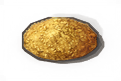
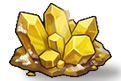
Artifact polish after judge 41: a combination's other sockets greyed out with a chain link (as the classic) and a bright inner rim on the combination itself; iron frames for war machines, the spellbook and empty sockets so gold means only the major tier; a duller copper for the treasure tier; backpa

diff --git a/tools/art/button_icons_paint.py b/tools/art/button_icons_paint.py
@@ -115,6 +115,11 @@ SHEETS = {"adventure": [
     (f"xp_{k}", "a gold star medal with a blue ribbon, drawn large and bold") for k in "ab"
 ] + [
     (f"speed_{k}", "a winged golden horseshoe with motion streaks, drawn large and bold") for k in "ab"
+], "sulfur": [  # (the map's sulfur pile: the old one read as a flat yellow disc; ingest -> imagegen, then
+    # tools/art/map_pile.py makes the map sprite)
+    (f"sulfur_{k}", "a small heap of bright yellow sulfur crystals lying on the ground, jagged chunky crystal lumps "
+     "with sharp facets and a little whitish crust, a faint wisp of pale smoke, seen from above at a three-quarter "
+     "angle, drawn bold") for k in "abcdefgh"
 ], "tome": [  # (the hero screen's spellbook slot: a closed, clasped tome, as the classic's; an open book read as Wisdom)
     (f"spellbook_closed_{k}", "a closed thick spellbook bound in deep red leather with ornate gold corner guards, a gold "
      "clasp and a glowing blue gem set in the cover, drawn large and bold, seen slightly from the front") for k in "abcdefgh"
@@ -171,7 +176,8 @@ def ingest(sheet):
         out.alpha_composite(obj, ((SIZE - obj.width) // 2, (SIZE - obj.height) // 2))
         dst = {"skills": f"assets/icons/skill_{name}.png", "stats": f"assets/icons/stat_{name}.png",
                "knowledge": f"assets/icons/stat_{name}.png", "misc_stats": f"assets/icons/stat_{name}.png",
-               "tome": f"assets/icons/{name}.png"}.get(sheet, f"assets/ui/btn_{name}.png")
+               "tome": f"assets/icons/{name}.png",
+               "sulfur": f"imagegen/batch20/out/{name}.png"}.get(sheet, f"assets/ui/btn_{name}.png")
         out.save(dst)
         print(f"  {dst}")
 

diff --git a/tools/art/map_pile.py b/tools/art/map_pile.py
@@ -1,0 +1,28 @@
+"""A resource pile for the adventure map from a painted, keyed take (button_icons_paint.py sheet "sulfur"): the
+magenta-tinted smoke dropped, scaled to the old sprite's size, a soft cast shadow added; the anchor in
+assets/map/anchors.json is kept (the pile's foot at the canvas bottom).
+python tools/art/map_pile.py imagegen/batch20/out/sulfur_a.png res_sulfur"""
+import sys
+import numpy as np
+from PIL import Image, ImageDraw, ImageFilter
+
+src, name = sys.argv[1], sys.argv[2]
+old = Image.open(f"assets/map/{name}.png")
+im = Image.open(src).convert("RGBA")
+a = np.asarray(im).astype(float)
+pink = (a[..., 0] > a[..., 1] + 10) & (a[..., 2] > a[..., 1] - 25) & (a[..., 2] > 90)  # (the smoke, tinted by the magenta ground)
+a[pink, 3] = 0
+a[a[..., 3] < 170, 3] = 0  # (and its faint remains: the pile itself is opaque)
+im = Image.fromarray(a.astype(np.uint8))
+im = im.crop(im.getchannel("A").point(lambda v: 255 if v > 40 else 0).getbbox())
+W, H = old.size
+s = min((W - 12) / im.width, (H - 6) / im.height)
+im = im.resize((round(im.width * s), round(im.height * s)), Image.LANCZOS)
+canvas = Image.new("RGBA", (W, H))
+sh = Image.new("L", (W, H), 0)
+x0 = (W - im.width) // 2
+ImageDraw.Draw(sh).ellipse([x0 + im.width * 0.1, H - 16, x0 + im.width * 1.05, H - 2], fill=110)
+canvas.paste((0, 0, 0, 255), (5, 0), sh.filter(ImageFilter.GaussianBlur(4)))
+canvas.alpha_composite(im, (x0, H - im.height - 3))
+canvas.save(f"assets/map/{name}.png")
+print("assets/map/%s.png" % name, canvas.size)

diff --git a/HANDOFF.md b/HANDOFF.md
@@ -2,7 +2,7 @@
 
 Read this first, then `ARCHITECTURE.md` (code map), `ASSETS.md` (every asset path and the art pipeline) and
 `CREDITS.md`. This file is written so that another person or another AI assistant can pick the work up exactly
-where it stopped. Last updated 2026-10-20 (artifacts committed and pushed; judge 41 run on them), branch `main`, remote
+where it stopped. Last updated 2026-10-20 (round 42, artifact polish, committed and pushed; judge 42 run), branch `main`, remote
 `https://github.com/wolfxxx/Heroes.git` (public repo).
 
 ## 1. The project in one paragraph
@@ -24,6 +24,12 @@ the look and feel of HoMM3, and each round fixes what the judge found.
   it (scores in section 7). Next step of the plan: the AI work (section 8).
 - Found and fixed on the way: the all-computer simulation could overflow Godot's message queue once one computer
   player had beaten the others (the AI turn loop never waited a frame); `_run_ai_turns` now waits one frame per turn.
+- Round 42 (artifact polish after judge 41) committed and pushed, judge 42 run on it: a combination's linked sockets greyed out with a
+  chain mark, iron frames for non-artifact and empty sockets, copper for the treasure tier, dimmed backpack arrows,
+  the sulfur pile repainted (it read as a flat yellow disc; `tools/art/map_pile.py`), guards no longer placed beside
+  another object, trees just below an object turned into bushes (`WorldGen._clear_view_of_objects`), and a 33rd judge
+  shot `adventure_artifacts` (`--setup=artifacts`). The placement changes alter generated maps, so judge 42's adventure
+  shots show different maps from judge 41's.
 - Round 40 is committed and pushed.
 - Judge 40 scores: menu 9.2, adventure 9.2, town 9.4, dialogs 9.5, battle 8.9, **overall 9.2**.
 - Rounds 31–40 were run as one uninterrupted loop on the user's instruction ("build, commit and push, judge cycle
@@ -73,7 +79,8 @@ the look and feel of HoMM3, and each round fixes what the judge found.
 | One screenshot | `Godot --path . -- --shot=shots/x.png --scene=res://scenes/battle.tscn --delay=3 --setup=demo` |
 | Judge screenshot set | `sh tools/judge_round.sh N` → `shots/judgeN/` (32 shots, 1600x900) |
 
-Screenshot harness flags (`scripts/core/shot.gd`, coordinates in 1920x1080 space, images saved at 1600x900):
+Screenshot harness flags (`scripts/core/shot.gd`, coordinates in 1920x1080 space, images saved at 1600x900;
+`--setup=artifacts` lays an artifact of each tier beside the first hero):
 `--shot --scene --delay --shots --interval --click=x,y;x,y (prefix r for right click) --keys=A;S --hover=x,y`;
 scenes also read `--setup=` (`demo`, `rich`, `new_game`, `all_spells`, `upgraded`, `siege`, `siege_haven`,
 `necro_rich`, `necro_max`, `x`), `--seed --faction --reveal --cam=x,y --zoom --broken=a,b`. The harness parks the
@@ -118,11 +125,26 @@ magenta key for pink fringes (recolour them, as was done for the Luck clover).
 | 38 | 9.2 | 9.2 | 9.2 | 9.4 | 8.9 | 9.2 |
 | 39 | 9.2 | 9.2 | 9.3 | 9.4 | 8.8 | 9.2 |
 | 40 | 9.2 | 9.2 | 9.4 | 9.5 | 8.9 | 9.2 |
+| 41 | 9.2 | 9.2 | 9.4 | 9.6 | 8.9 | 9.2 |
 
 Trend: gains have flattened at 9.2 for three rounds. Battle is the weakest area; the next big step most likely comes
 from battle (crowded siege melees, the lightning effect) or from new gameplay (section 8), not more small polish.
 
 ## 8. What's next
+
+### Open findings from judge 41 (artifacts round)
+1. No artifact appears in any judge screenshot, so the map half of the feature was not judged: add a judge shot
+   framed on placed artifacts (`tools/judge_shots.sh`).
+2. A combination's linked sockets read as copies of the item: fade/desaturate them much harder and mark them
+   (HoMM3 greys out the slots a combination takes); the Dragonheart Arms icon is low-contrast on the maroon ground.
+3. Non-artifact sockets (war machines, spellbook, empty backpack cells) use a gold frame that reads as the "major"
+   tier: give them a neutral dark-iron frame.
+4. Bronze (treasure) and gold (major) tier frames are too close: push bronze toward copper and duller.
+5. A flat gold oval on the map (adventure_snow ~1057,357; adventure_overview ~455,282) reads as a placeholder.
+6. Map objects on neighbouring tiles overlap (two knights by the mine in adventure_snow; a gold pile inside a tree in
+   adventure_close).
+7. Backpack page arrows look active when everything fits on one page.
+8. Still open from judge 40: storm cloud on the top-row stack, faint open-field bolt, siege-gate pile-ups.
 
 ### Open findings from judge 40 (ranked)
 1. Lightning storm cloud looks like a flat cartoon blob (`battle.gd` class `_Burst`, the `bolt` branch); its pale

diff --git a/tools/judge_prompt.md b/tools/judge_prompt.md
@@ -9,8 +9,8 @@ You are a demanding visual/UX judge for "Heroes of the Shattered Crown", a Godot
 that aims to look and play like Heroes of Might and Magic III (classic adventure map, town screens, hex battles).
 Judge only what you can see in the screenshots; do not edit any files.
 
-Screenshots (all 1600x900) are in C:\Users\PC\Documents\GITHUBprojects\Heroes2\shots\judge<N>\ — 32 PNGs: menu,
-newgame, adventure_* (start, close, overview, path, snow, kingdom, date), hero_screen, town_* (build, build_rich,
+Screenshots (all 1600x900) are in C:\Users\PC\Documents\GITHUBprojects\Heroes2\shots\judge<N>\ — 33 PNGs: menu,
+newgame, adventure_* (start, close, overview, path, snow, kingdom, date, artifacts), hero_screen, town_* (build, build_rich,
 recruit, upgrade, capitol, blacksmith, haven_early, haven_full, necro_full), battle_* (0, 1, 2, fireball, hover,
 siege, siege_later, siege_turn, siege_haven, spellbook, surrender, turn, upgraded). View every one with the Read
 tool. For comparison the previous round's shots are in ...\shots\judge<N-1>\ (same names); look at a few to judge

diff --git a/ASSETS.md b/ASSETS.md
@@ -46,7 +46,8 @@ leaves the `_dead` sprite on the hex as a corpse.
 - `terrain/<terrain>.png` — seamless tileable 512x512 top-down ground textures: grass dirt sand snow swamp water road.
 - `map/town_<faction>.png` — town as seen on adventure map (3/4 oblique top-down), transparent, ~384x288 (occupies ~5x3 tiles at 64px; the entrance gate at bottom centre).
 - `map/<mine_id>.png` — mines (ids in `GameData.MINES`), transparent, ~192x160.
-- `map/res_<resource>.png` — resource pile on the ground, transparent, ~96x80.
+- `map/res_<resource>.png` — resource pile on the ground, transparent, ~96x80. `res_sulfur.png` was repainted
+  (sheet `sulfur` of `button_icons_paint.py`, then `tools/art/map_pile.py`: smoke dropped, scaled to the old size, shadow).
 - `map/chest.png`, `map/campfire.png`, `map/artifact.png` (generic artifact pedestal/glow), `map/shrine.png` (magic shrine),
   `map/windmill.png`, `map/obelisk.png`, `map/dwelling_neutral.png`, `map/watchtower.png`.
 - Decorations, transparent: `map/tree_oak_1..4.png`, `map/tree_pine_1..3.png`, `map/tree_dead_1..2.png`,
